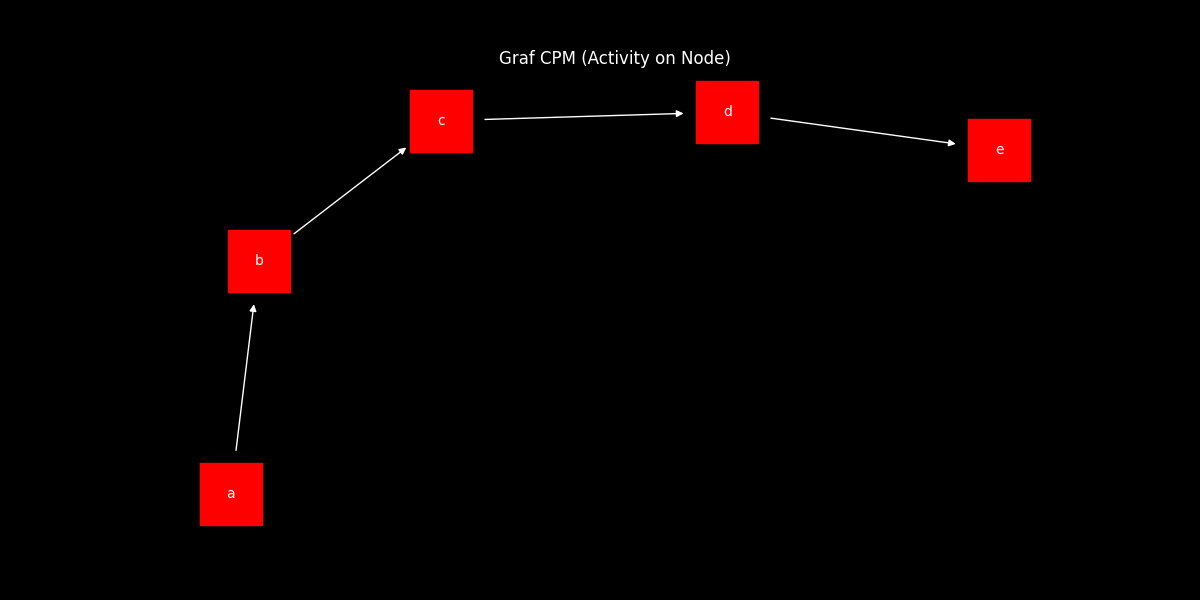
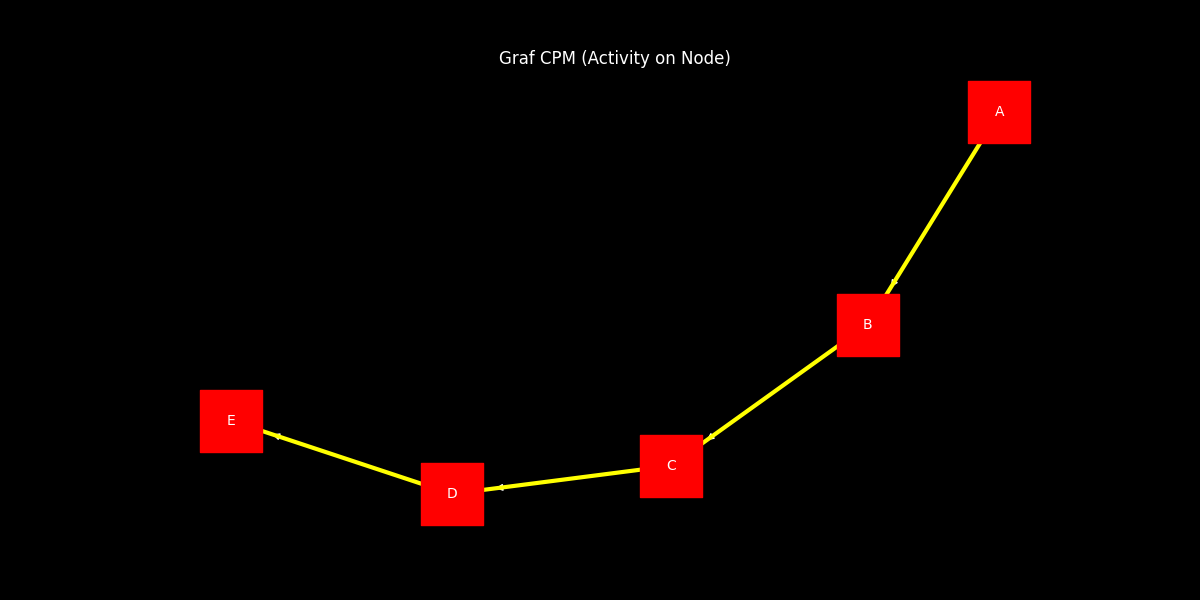
Aplikacja CPM - Alfa 13 - Krecha Niczym Do Nosa

diff --git a/Script.js b/Script.js
@@ -103,12 +103,12 @@ function generateCPM() {
         console.log("Tasks for Gantt:", ganttTasks); // Debug log
 
         // Call Python API to visualize CPM graph (Activity on Node)
-        window.pywebview.api.visualize_cpm_graph_aon(tasks).then(resp => {
+        window.pywebview.api.visualize_cpm_graph_aon(tasks, response.critical_path).then(resp => {
             let container = document.getElementById('cpmGraphContainer');
             container.innerHTML = `<img src="${resp.graph_path}" style="width: 100%;"/>`;
 
             // Call Python API to visualize CPM graph (Activity on Arrow)
-            window.pywebview.api.visualize_cpm_graph(tasks).then(resp => {
+            window.pywebview.api.visualize_cpm_graph(tasks, response.critical_path).then(resp => {
                 container.innerHTML += `<img src="${resp.graph_path}" style="width: 100%; margin-top: 20px;"/>`;
             }).catch(error => {
                 console.error("Error generating CPM graph (arrow):", error);

diff --git a/CPMGrafy.py b/CPMGrafy.py
@@ -3,7 +3,7 @@ matplotlib.use("Agg")
 import networkx as nx
 import matplotlib.pyplot as plt
 
-def visualize_cpm_graph(tasks):
+def visualize_cpm_graph(tasks, critical_path=None):
     G = nx.DiGraph()
     for task in tasks:
         G.add_node(task["name"], duration=float(task["duration"]))
@@ -15,12 +15,15 @@ def visualize_cpm_graph(tasks):
     plt.figure(figsize=(12, 6))
     plt.gca().set_facecolor('black')
     nx.draw(G, pos, with_labels=True, node_color='green', edge_color='white', node_size=2000, font_size=10, font_color='white')
+    if critical_path:
+        crit_edges = list(zip(critical_path, critical_path[1:]))
+        nx.draw_networkx_edges(G, pos, edgelist=crit_edges, width=3, edge_color='yellow', arrows=True, arrowstyle='-|>', arrowsize=20)
     plt.title("Graf CPM (Activity on Arrow)", color='white')
     plt.savefig("cpm_graph_aoa.png", facecolor='black')
     plt.close()
     return "cpm_graph_aoa.png"
 
-def visualize_cpm_graph_aon(tasks):
+def visualize_cpm_graph_aon(tasks, critical_path=None):
     G = nx.DiGraph()
     for task in tasks:
         G.add_node(task["name"], duration=float(task["duration"]))
@@ -32,6 +35,9 @@ def visualize_cpm_graph_aon(tasks):
     plt.figure(figsize=(12, 6))
     plt.gca().set_facecolor('black')
     nx.draw(G, pos, with_labels=True, node_shape='s', node_color='red', edge_color='white', node_size=2000, font_size=10, font_color='white')
+    if critical_path:
+        crit_edges = list(zip(critical_path, critical_path[1:]))
+        nx.draw_networkx_edges(G, pos, edgelist=crit_edges, width=3, edge_color='yellow', arrows=True, arrowstyle='-|>', arrowsize=20)
     plt.title("Graf CPM (Activity on Node)", color='white')
     plt.savefig("cpm_graph_aon.png", facecolor='black')
     plt.close()

diff --git a/Main.py b/Main.py
@@ -28,12 +28,12 @@ class API:
         result = calculate_cpm(tasks)
         return result
 
-    def visualize_cpm_graph(self, tasks):
-        graph_path = visualize_cpm_graph(tasks)
+    def visualize_cpm_graph(self, tasks, critical_path=None):
+        graph_path = visualize_cpm_graph(tasks, critical_path)
         return {"message": "Graf CPM (Activity on Arrow) został wygenerowany", "graph_path": graph_path}
 
-    def visualize_cpm_graph_aon(self, tasks):
-        graph_path = visualize_cpm_graph_aon(tasks)
+    def visualize_cpm_graph_aon(self, tasks, critical_path=None):
+        graph_path = visualize_cpm_graph_aon(tasks, critical_path)
         return {"message": "Graf CPM (Activity on Node) został wygenerowany", "graph_path": graph_path}
 
     def visualize_gantt_chart(self, tasks):
